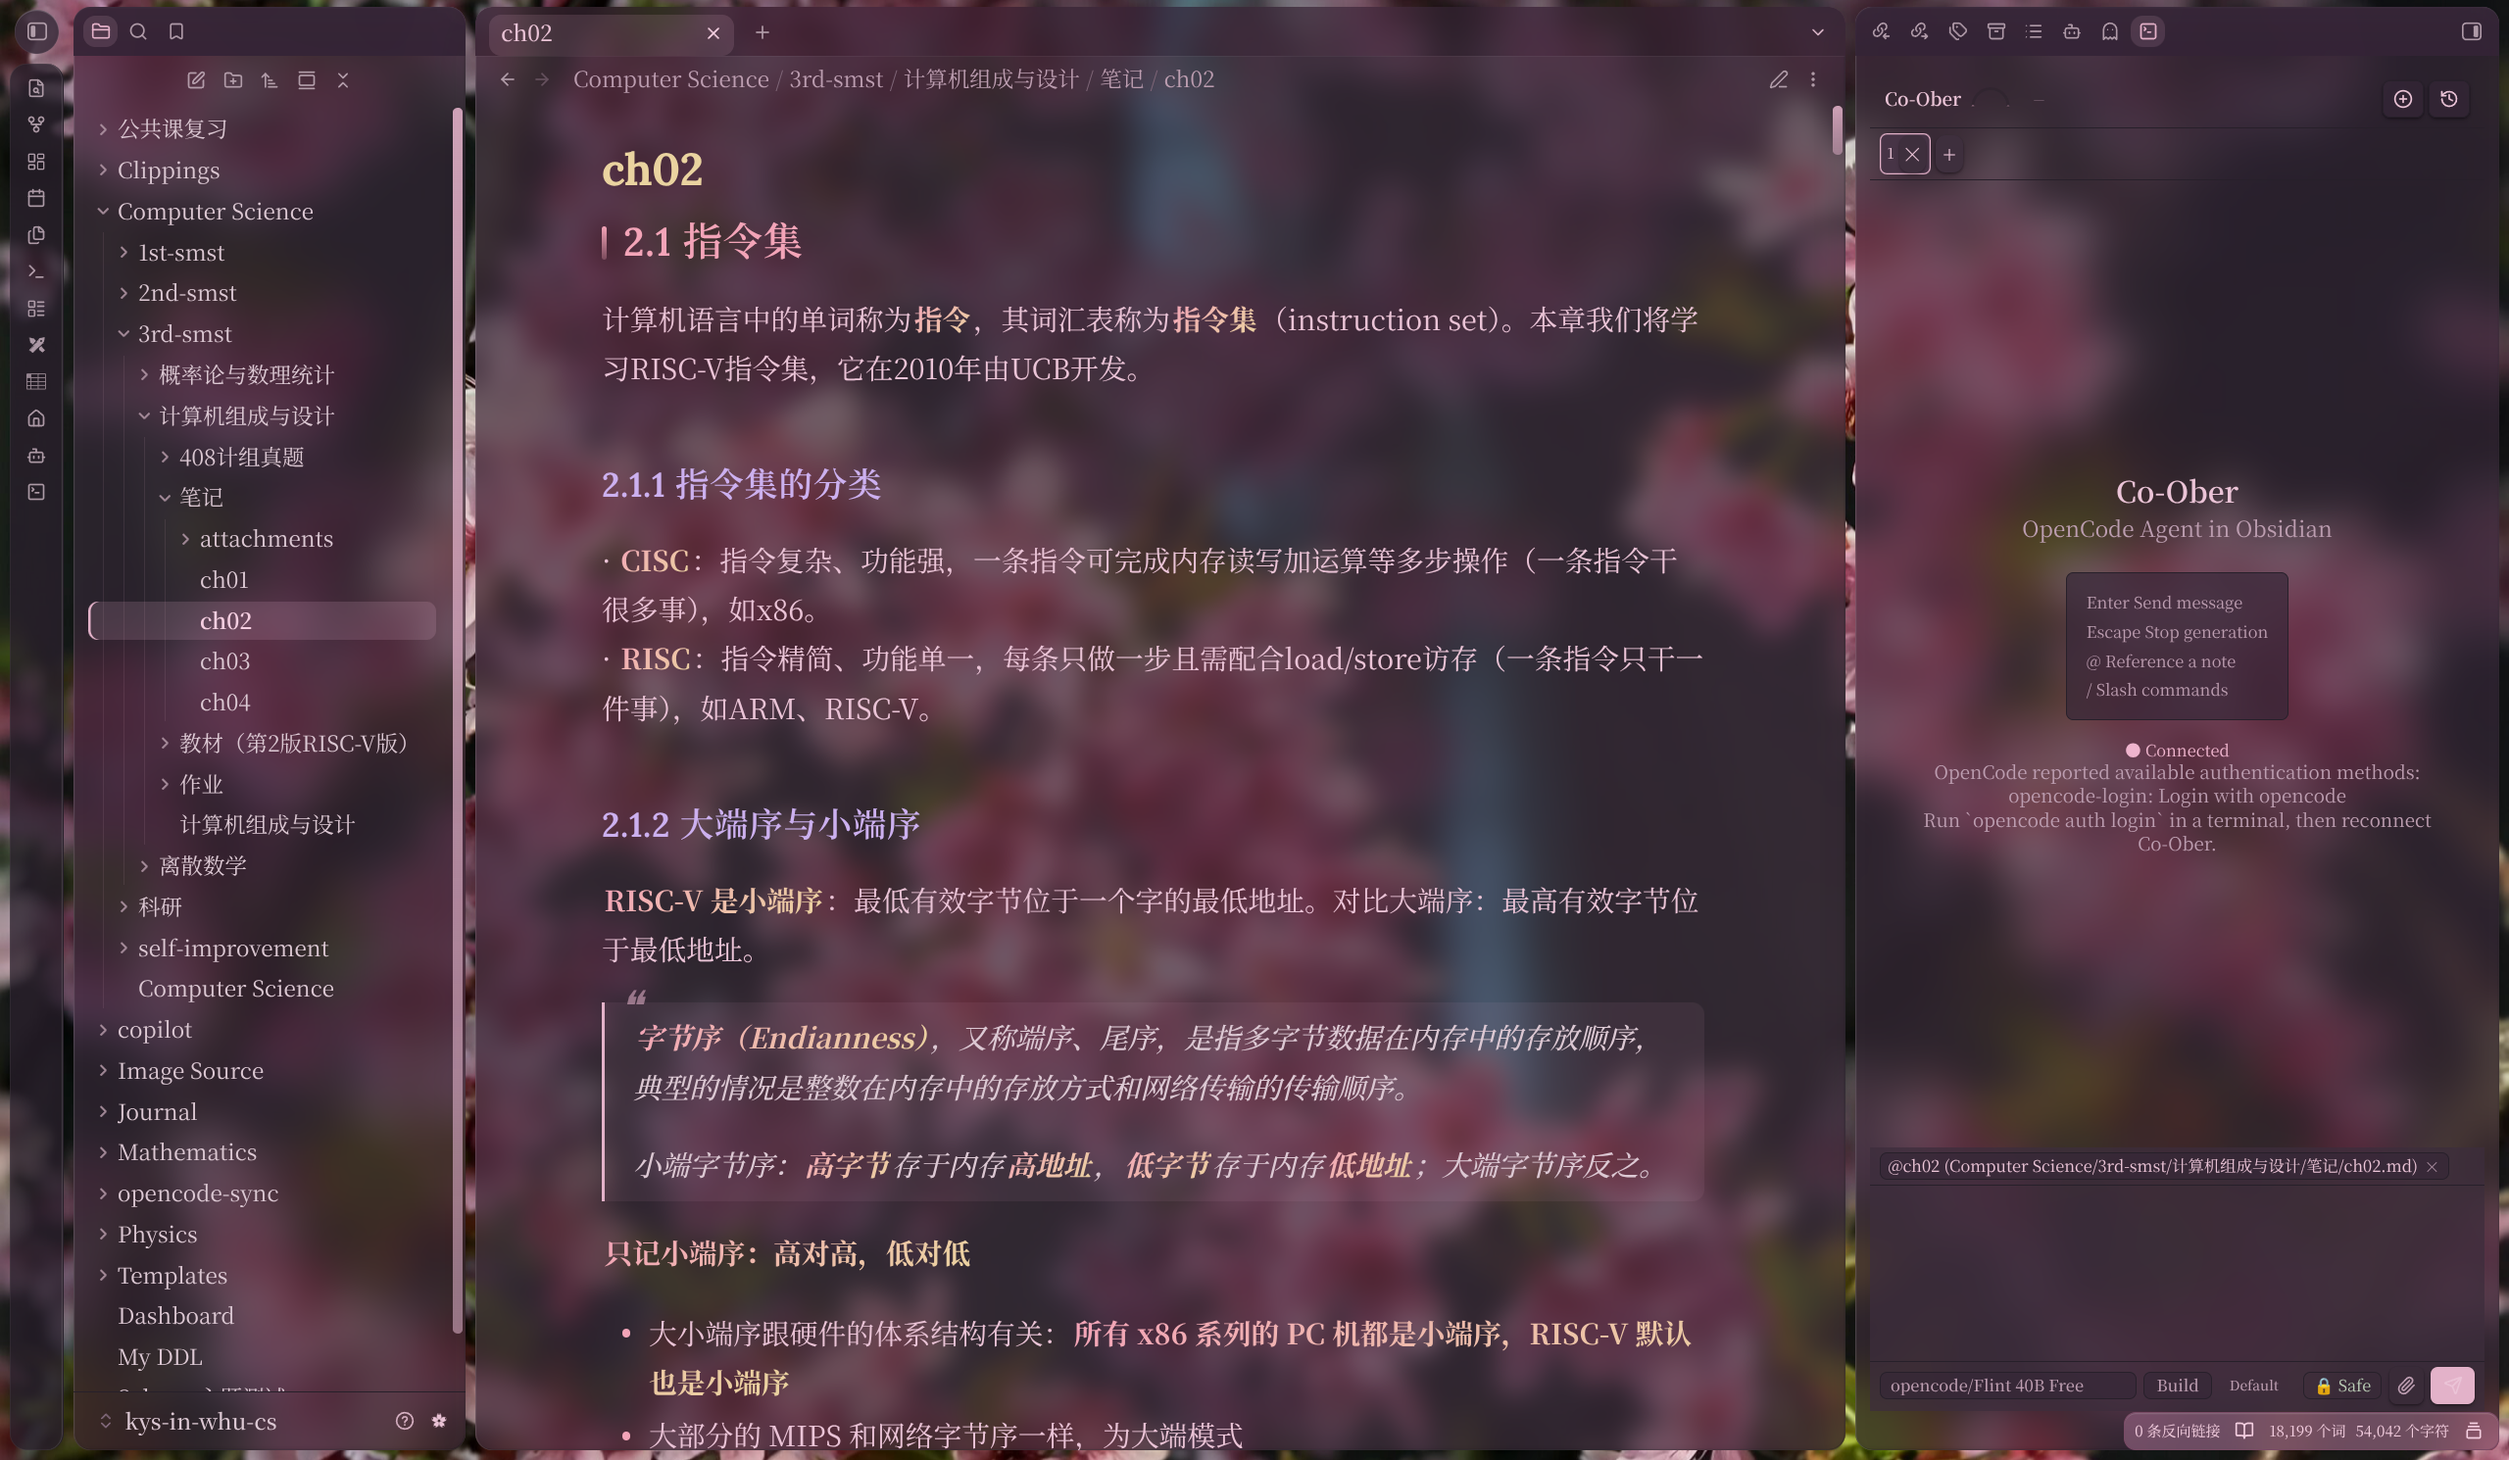
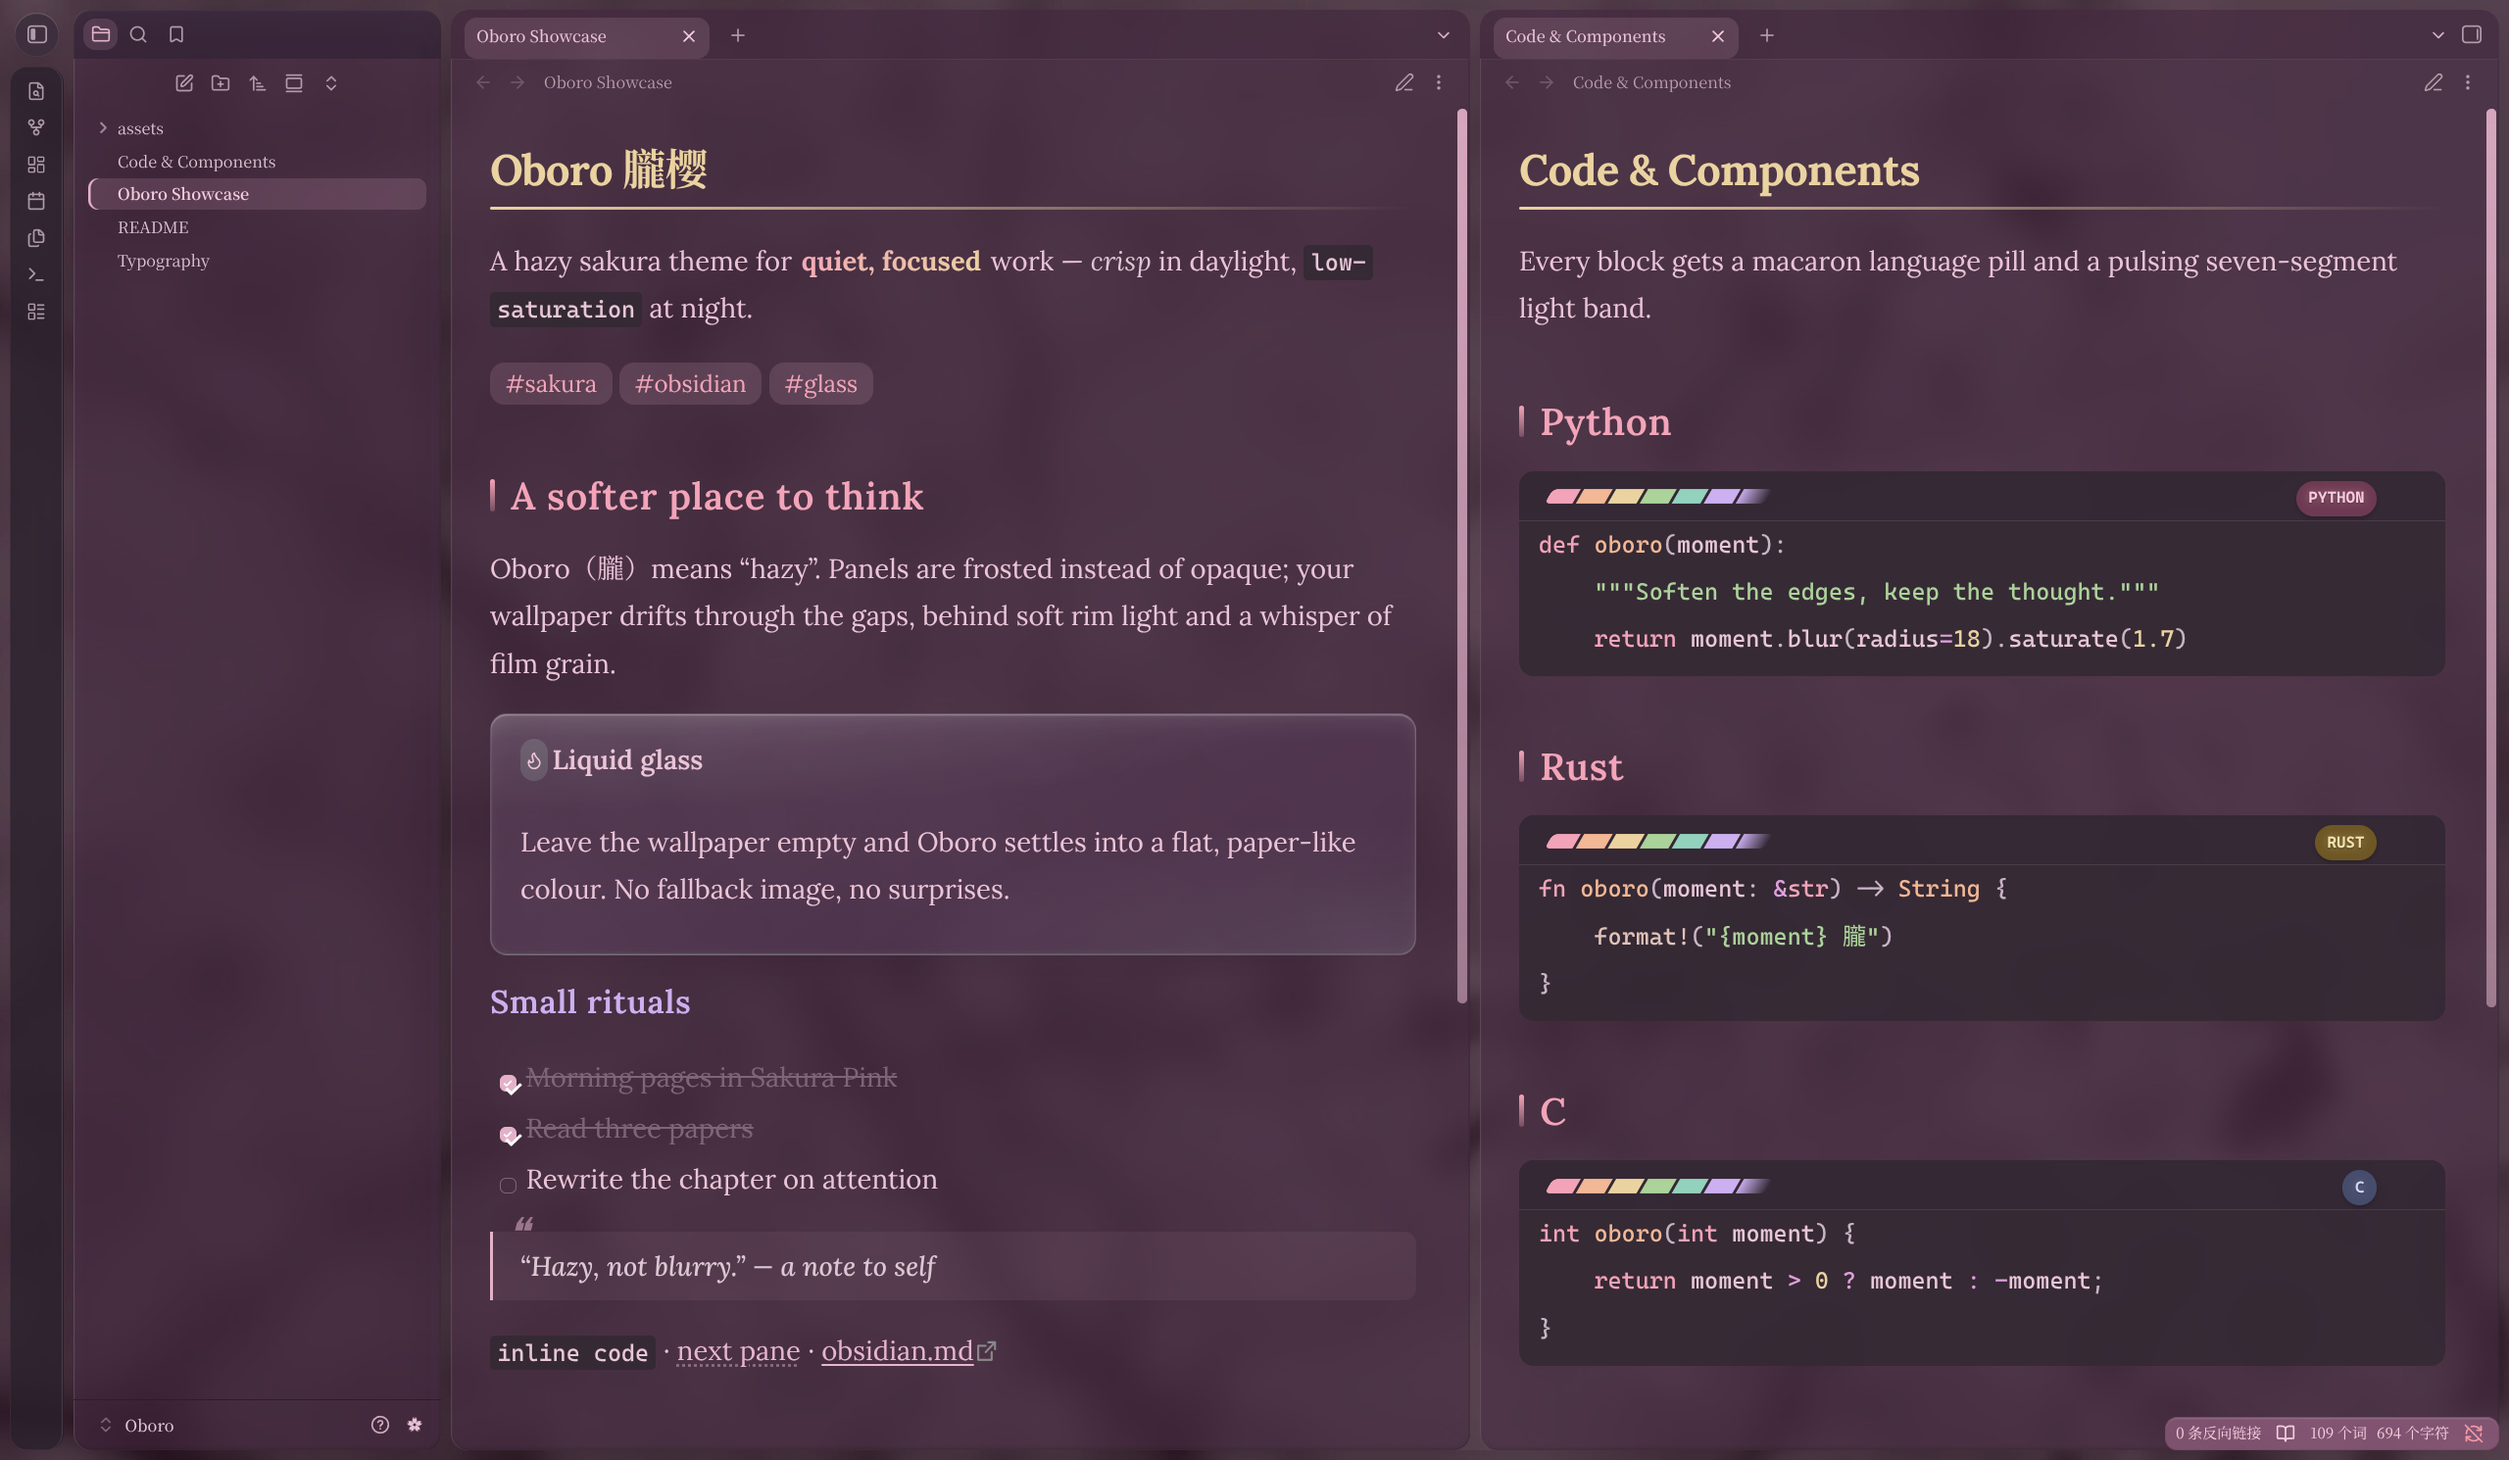
feat: callout 换成 Apple clear-glass，面板默认更透

diff --git a/theme.css b/theme.css
@@ -672,8 +672,8 @@ body {
 }
 
 .theme-dark {
-  --ob-glass-primary-opacity: 74%;
-  --ob-glass-secondary-opacity: 68%;
+  --ob-glass-primary-opacity: 60%;
+  --ob-glass-secondary-opacity: 54%;
   --ob-glass-rim: rgb(255 255 255 / 14%);
   --ob-glass-rim-soft: rgb(255 255 255 / 7%);
   --ob-glass-shade: rgb(0 0 0 / 22%);
@@ -683,12 +683,22 @@ body {
   --ob-glass-fringe-cool: rgb(150 200 255 / 5%);
   --ob-glass-wash: rgb(255 255 255 / 3%);
   --ob-glass-sheen-opacity: 0.07;
+
+  /* Callout 玻璃：Apple clear-glass 配方 —— 薄纱 + 低模糊 + 镜面缘。
+     主题无法向 DOM 注入 SVG filter，做不了真正的折射；改用双色缘光与
+     顶部高光弧模拟玻璃厚度，类型色只留在图标、标题和右下角折射晕。 */
+  --ob-callout-rim: rgb(255 255 255 / 15%);
+  --ob-callout-rim-soft: rgb(255 255 255 / 8%);
+  --ob-callout-veil: rgb(255 255 255 / 4%);
+  --ob-callout-sheen: rgb(255 255 255 / 14%);
+  --ob-callout-highlight: rgb(255 255 255 / 26%);
+  --ob-callout-shade: rgb(0 0 0 / 30%);
 }
 
 
 .theme-light {
-  --ob-glass-primary-opacity: 78%;
-  --ob-glass-secondary-opacity: 72%;
+  --ob-glass-primary-opacity: 60%;
+  --ob-glass-secondary-opacity: 54%;
   --ob-glass-rim: rgb(255 255 255 / 60%);
   --ob-glass-rim-soft: rgb(255 255 255 / 32%);
   --ob-glass-shade: rgb(82 40 60 / 8%);
@@ -700,6 +710,14 @@ body {
   --ob-glass-fringe-cool: transparent;
   --ob-glass-wash: rgb(255 255 255 / 5%);
   --ob-glass-sheen-opacity: 0.1;
+
+  /* Callout 玻璃：浅色侧使用更亮的上缘高光与更轻的底部阴影 */
+  --ob-callout-rim: rgb(255 255 255 / 38%);
+  --ob-callout-rim-soft: rgb(255 255 255 / 50%);
+  --ob-callout-veil: rgb(255 255 255 / 8%);
+  --ob-callout-sheen: rgb(255 255 255 / 30%);
+  --ob-callout-highlight: rgb(255 255 255 / 72%);
+  --ob-callout-shade: rgb(90 50 70 / 14%);
 }
 
 /* 移动端玻璃减剂量：小屏 GPU 上叠层 backdrop-filter 昂贵，
@@ -935,6 +953,13 @@ html body.is-mobile {
     -webkit-backdrop-filter: none;
   }
 
+  .markdown-rendered .callout {
+    background-color: rgb(var(--callout-color), 0.1);
+    background-image: none;
+    border-color: rgb(var(--callout-color), 0.25);
+    box-shadow: none;
+  }
+
   .theme-light .status-bar,
   .theme-dark .status-bar {
     backdrop-filter: none;
@@ -997,6 +1022,13 @@ body.ob-solid :is(.markdown-rendered table, .markdown-rendered .callout, .markdo
   -webkit-backdrop-filter: none;
 }
 
+body.ob-solid .markdown-rendered .callout {
+  background-color: rgb(var(--callout-color), 0.1);
+  background-image: none;
+  border-color: rgb(var(--callout-color), 0.25);
+  box-shadow: none;
+}
+
 /* 不支持 backdrop-filter 的老 webview：玻璃变量直接退实色（框架兜底） */
 @supports not (backdrop-filter: blur(1px)) {
   body {
@@ -1004,6 +1036,13 @@ body.ob-solid :is(.markdown-rendered table, .markdown-rendered .callout, .markdo
     --ob-glass-soft-filter: none;
     --ob-glass-mild-filter: none;
     --ob-glass-chip-filter: none;
+  }
+
+  .callout {
+    background-color: rgb(var(--callout-color), 0.1);
+    background-image: none;
+    border-color: rgb(var(--callout-color), 0.25);
+    box-shadow: none;
   }
 }
 
@@ -1526,12 +1565,43 @@ input[type='checkbox'].task-list-item-checkbox:checked {
    13. Callouts - 玻璃标注：按类型映射八色基板
    ----------------------------------------------------------------- */
 .callout {
-  border-radius: 12px;
+  position: relative;
+  overflow: hidden;
+  border-radius: 14px;
 
   /* --callout-color 是逗号三元组，必须用逗号记法（斜杠+逗号混合在 Chromium 非法） */
-  border: 1px solid rgb(var(--callout-color), 0.25);
-  background-color: rgb(var(--callout-color), 0.1);
-  box-shadow: 0 2px 10px rgb(0 0 0 / 6%);
+  border: 1px solid var(--ob-callout-rim, rgb(255 255 255 / 30%));
+  background-color: rgb(255 255 255 / 3%);
+  background-image:
+    /* 左上镜面高光弧 */
+    radial-gradient(
+      125% 85% at 14% -12%,
+      var(--ob-callout-sheen, rgb(255 255 255 / 24%)) 0%,
+      rgb(255 255 255 / 5%) 34%,
+      transparent 62%
+    ),
+    /* 右下类型色折射晕：保留八色识别，又不把整块玻璃染灰 */
+    radial-gradient(
+      95% 110% at 100% 110%,
+      rgb(var(--callout-color), 0.10),
+      transparent 62%
+    ),
+    /* 极薄液面纱 */
+    linear-gradient(
+      150deg,
+      var(--ob-callout-veil, rgb(255 255 255 / 6%)),
+      transparent 68%
+    );
+  box-shadow:
+    inset 0 0 0 0.5px var(--ob-callout-rim-soft, rgb(255 255 255 / 40%)),
+    inset 0 1.5px 1px -0.5px var(--ob-callout-highlight, rgb(255 255 255 / 62%)),
+    inset 0 -1px 0 rgb(var(--callout-color), 0.2),
+    inset 0 -3px 6px -4px rgb(var(--callout-color), 0.18),
+    inset 0 -1.5px 1px -0.5px var(--ob-callout-shade, rgb(90 50 70 / 16%)),
+    inset 0 12px 24px -18px var(--ob-callout-highlight, rgb(255 255 255 / 30%)),
+    0 14px 36px -26px rgb(0 0 0 / 32%);
+
+  /* 低模糊是折射感的替代：糊得太狠，背后的花纹就死了 */
   backdrop-filter: var(--ob-glass-chip-filter);
   -webkit-backdrop-filter: var(--ob-glass-chip-filter);
 }
@@ -3213,9 +3283,9 @@ settings:
   -
     id: ob-glass-primary-opacity
     title: 编辑器面板实度
-    description: '数值越低越透、壁纸越明显；74 为液态玻璃默认，100 为不透明。'
+    description: '数值越低越透、壁纸越明显；60 为液态玻璃默认，100 为不透明。'
     type: variable-number-slider
-    default: 74
+    default: 60
     min: 50
     max: 100
     step: 2
@@ -3223,9 +3293,9 @@ settings:
   -
     id: ob-glass-secondary-opacity
     title: 侧栏面板实度
-    description: '数值越低越透；68 为液态玻璃默认。'
+    description: '数值越低越透；54 为液态玻璃默认。'
     type: variable-number-slider
-    default: 68
+    default: 54
     min: 50
     max: 100
     step: 2

diff --git a/CHANGELOG.md b/CHANGELOG.md
@@ -5,6 +5,24 @@
 格式基于 [Keep a Changelog](https://keepachangelog.com/zh-CN/1.1.0/)，
 版本号遵循 [Semantic Versioning](https://semver.org/lang/zh-CN/)。
 
+## [Unreleased]
+
+### Changed
+
+- **Callout 换成更透亮的 Liquid Glass**：参考 Apple clear-glass 的分层做法，去掉原来的
+  10% 类型色实底，改为 3% 中性白 + 顶部镜面高光弧 + 极薄液面纱 + 双色缘光；类型色
+  只留在图标、标题、右下折射晕与底部色缘。`--ob-callout-*` 在浅/深色块分别定义，
+  `ob-solid` 与 `prefers-reduced-transparency` 下退回实色。
+- **面板默认更透**：浅/深色默认面板实度统一为 60% / 54%，壁纸纹理能真正透过编辑器、
+  侧栏与标签条；原先浅色 78/72、深色 74/68 与 Style Settings 的 74/68 不一致。
+- **截图重拍**：`screenshots/screenshot-light.png` / `screenshot-dark.png` 使用新版
+  液态玻璃与樱枝壁纸重拍（2560×1490）。
+
+### Fixed
+
+- **无 Style Settings 时面板实度取错默认值**：浅色块曾写 78/72、深色块 74/68，
+  而 Style Settings 声明 74/68，导致装与不装插件看到两种默认。现统一为 60/54。
+
 ## [0.1.2] - 2026-10-25
 
 ### Changed

diff --git a/docs/maintenance.md b/docs/maintenance.md
@@ -78,6 +78,11 @@
   `text-decoration*` 的 partial-support warning 来自插件的 caniuse 数据，可忽略。
 - **callout 类型色**：浅色侧 8 组标题色全部压至对比度 ≥4.5:1（青 `#3E7168` 绿 `#4C7343`
   金 `#8A6E1F` 橙 `#A85F2D` 玫 `#A94658` 蓝 `#4A6FA5` 红 `#B03A4E` 紫 `#8A5F9E`）。
+- **Callout 玻璃配方**：纯 CSS 主题无法向 DOM 注入 SVG filter，因此不做真实折射；
+  用 `--ob-callout-*` 的顶部高光弧、右下类型色晕与底部色缘模拟玻璃厚度。类型色只允许
+  出现在缘光、图标和标题，不要把 `rgb(var(--callout-color), …)` 写回整块
+  `background-color`——青+粉会互相抵消成灰卡。`ob-solid` 与
+  `prefers-reduced-transparency` 已显式清掉 `background-image` / `box-shadow`。
 - **逗号三元组颜色变量**：`--callout-color` 的值是 `"r, g, b"` 逗号三元组，
   `rgb(var(--callout-color) / 25%)`（斜杠+逗号混合）在 Chromium **非法会被整条丢弃**；
   必须写 `rgb(var(--callout-color), 0.25)`（逗号记法，实测有效）。
